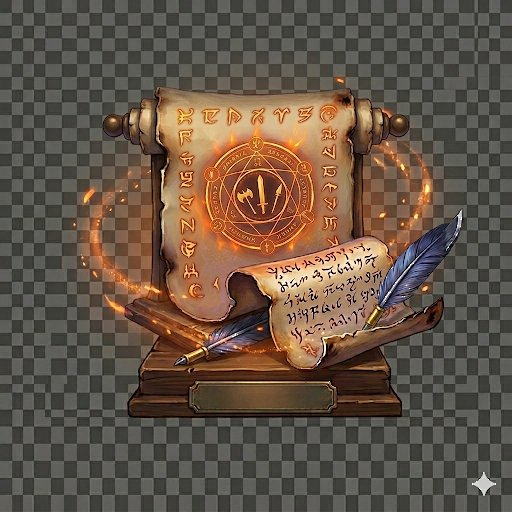
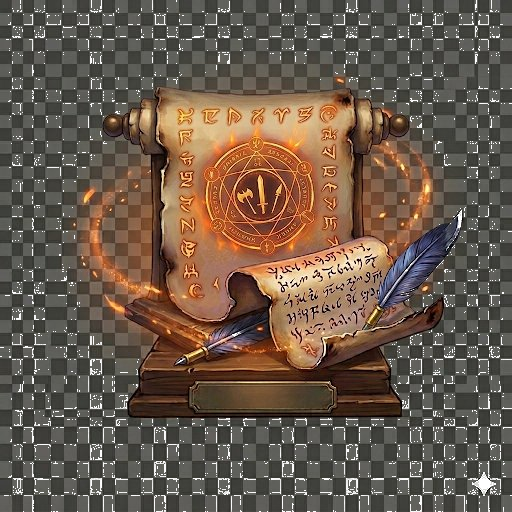
fix scroll images background

diff --git a/src/App.js b/src/App.js
@@ -916,16 +916,26 @@ function EnhModal({item:initItem,onClose,gold,onSpendGold,scrolls,onUseScroll,on
             <div style={{width:`${prob}%`,height:"100%",borderRadius:99,transition:"width .4s",background:prob>=70?C.succ:prob>=40?C.warn:C.fail}}/>
           </div>
           <div style={{display:"grid",gridTemplateColumns:"1fr 1fr",gap:8,marginBottom:14}}>
-            {[["normal","일반","500 G"],["adv","고급","2,000 G"]].map(([t,nm,pr])=>(
-              <button key={t} onClick={()=>setScroll(t)} style={{
-                border:`2px solid ${scroll===t?C.gold:C.bdr1}`,borderRadius:5,padding:"10px 8px",
-                textAlign:"center",cursor:"pointer",background:scroll===t?C.bg3:C.bg2}}>
-                <div style={{fontSize:20,marginBottom:3}}>📜</div>
-                <div style={{fontSize:11,fontWeight:700,color:scroll===t?C.goldL:C.t1,marginBottom:1}}>{nm} 주문서</div>
-                <div style={{fontSize:13,fontWeight:800,color:scroll===t?C.goldL:C.gold}}>{pr}</div>
-                <div style={{fontSize:9,color:C.t3,marginTop:1}}>보유 {scrolls[t]||0}개</div>
-              </button>
-            ))}
+            {(()=>{
+              const itemType=item.type==="weapon"?"무기":item.type==="armor"?"방어구":"장신구";
+              return [
+                {t:"normal",nm:"일반",pr:"500 G",img:`./images/일반${itemType}강화주문서.png`},
+                {t:"adv",nm:"고급",pr:"2,000 G",img:`./images/고급${itemType}강화주문서.png`},
+              ].map(({t,nm,pr,img})=>(
+                <button key={t} onClick={()=>setScroll(t)} style={{
+                  border:`2px solid ${scroll===t?C.gold:C.bdr1}`,borderRadius:5,padding:"10px 8px",
+                  textAlign:"center",cursor:"pointer",background:scroll===t?C.bg3:C.bg2,
+                  display:"flex",flexDirection:"column",alignItems:"center",gap:4}}>
+                  <div style={{width:52,height:52,display:"flex",alignItems:"center",justifyContent:"center"}}>
+                    <img src={img} alt={nm} style={{width:"100%",height:"100%",objectFit:"contain"}}
+                      onError={e=>{e.target.style.display="none";e.target.insertAdjacentHTML("afterend","<span style='font-size:28px'>📜</span>");}}/>
+                  </div>
+                  <div style={{fontSize:10,fontWeight:700,color:scroll===t?C.goldL:C.t1}}>{nm} 주문서</div>
+                  <div style={{fontSize:12,fontWeight:800,color:scroll===t?C.goldL:C.gold}}>{pr}</div>
+                  <div style={{fontSize:9,color:C.t3}}>보유 {scrolls[t]||0}개</div>
+                </button>
+              ));
+            })()}
           </div>
           <button onClick={doEnh} disabled={lv>=15||!!outcome} style={{
             width:"100%",padding:"14px",borderRadius:4,border:"none",
